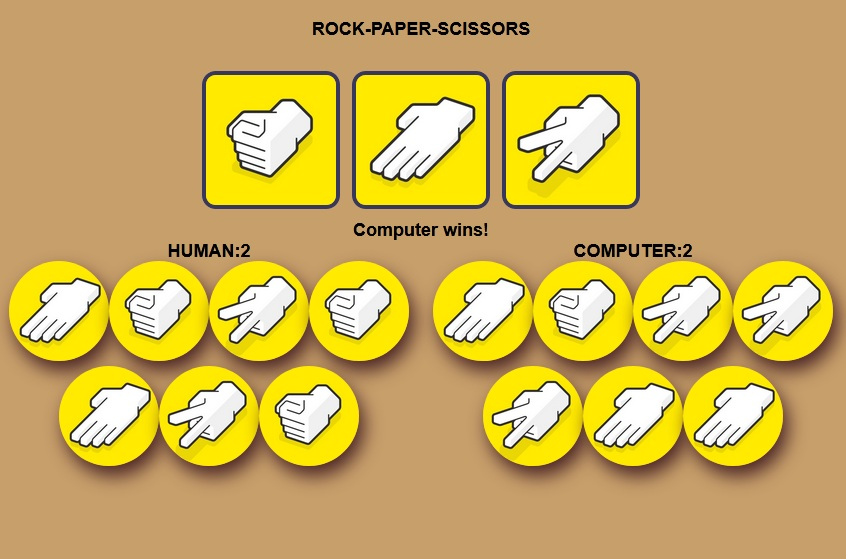
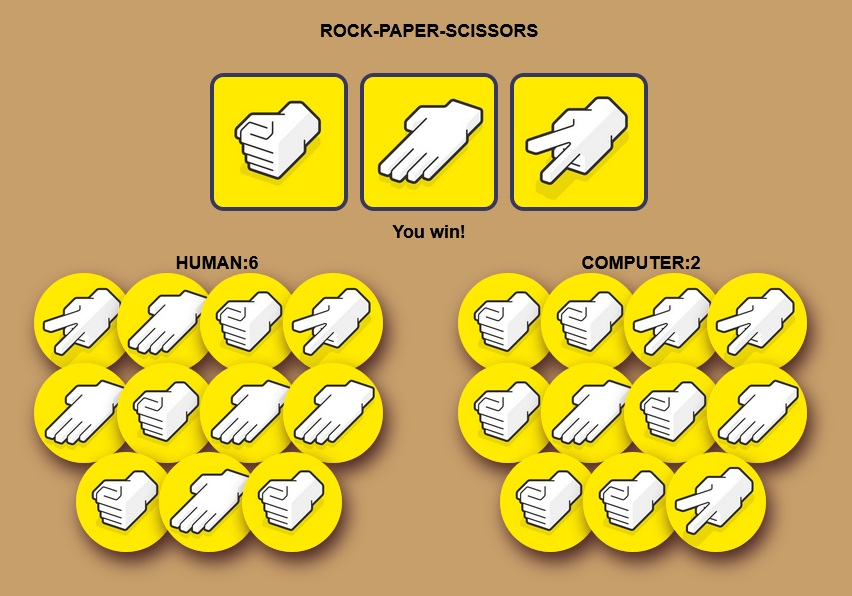
Some style update

diff --git a/index.html b/index.html
@@ -39,7 +39,7 @@
                 document.getElementById("text_output").innerHTML = "You win!";
             }
 
-            document.getElementById("hText").innerHTML = humanPoints;
+            document.getElementById("hText").innerHTML = humanPoints + "\n\n\n";
             document.getElementById("cText").innerHTML = computerPoints;
         }
     </script>
@@ -69,6 +69,7 @@
             <div id="co">
                 <div>computer:</div>
                 <div id="cText">0</div>
+				<br>
             </div>
         </div>
     </div>

diff --git a/style/style.css b/style/style.css
@@ -15,6 +15,9 @@ h1{
 img{
     width: 100px;
     border-radius: 50%;
+	margin-left: -17px;
+	margin-bottom: -15px; 
+    box-shadow: 5px 10px 18px rgb(75, 37, 37);
 }
 .buttons{
     display: flex;
@@ -37,6 +40,7 @@ img{
     justify-content: center;
     flex: 1 0 200px;
     height: 200px;
+	margin: 10px;
     text-transform: uppercase;
 }
 #hu, #co {
